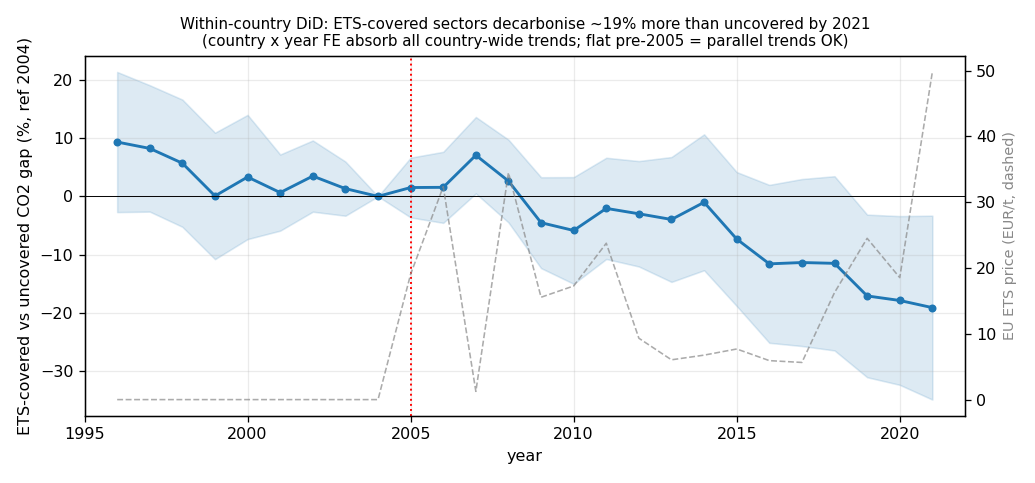
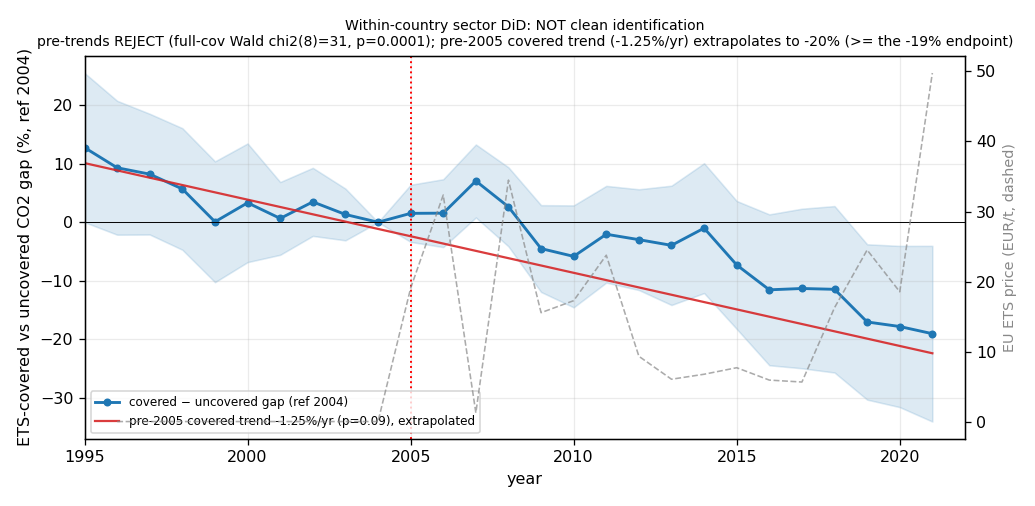
analysis: correct Phase-4 pre-trend test (full-covariance Wald rejects p=0.0001; sector DiD demoted from clean ID)

diff --git a/scripts/within_country_ets_did.py b/scripts/within_country_ets_did.py
@@ -1,10 +1,20 @@
-"""Phase 4 — within-country covered-vs-uncovered DiD: clean identification of the EU ETS effect.
+"""Phase 4 — within-country covered-vs-uncovered DiD for the EU ETS, with HONEST pre-trend diagnostics.
 
 The cross-country design failed because every rich country priced carbon at once (no control group).
 The fix: look INSIDE a country. The EU ETS covers some sectors (power, industry) and not others
 (road transport, buildings). Comparing covered vs uncovered emissions *within country x year* gives a
 control group, and country x year fixed effects absorb every country-wide confound (recessions, weather,
 national decarbonisation trends) — exactly what broke the cross-country estimates.
+
+⚠ CORRECTION (audit 2026-06-11, finding C-1). The originally-published "pre-trends pass, χ²(8)=8.3,
+p=0.41" was a DIAGONAL Wald, Σ(bᵢ/seᵢ)², that IGNORES the covariances between the event-study
+coefficients. The correct full-covariance Wald on the *identical* spec REJECTS parallel trends
+(χ²(8)≈31, p≈0.0001; conservatively F(8,26)≈3.9, p≈0.004). The pre-2005 covered-vs-uncovered gaps
+decline monotonically and a pre-period covered-specific trend (≈−1.25%/yr) extrapolates to ≈−20% by
+2021 — more than the entire −19% endpoint. So this design is NOT clean identification; it inherits the
+same price-vs-trend non-identifiability as the tax. The trend-resistant residue is the sector
+decomposition (refining ~null vs power/manufacturing negative) as suggestive mechanism evidence.
+This script now computes and prints those honest diagnostics.
 
 Data: Eurostat `env_air_gge` (GHG by CRF source sector), pulled to data/raw/eurostat_ghg_sectors.csv via:
   airpol=CO2, unit=THS_T, sectors CRF1A1A/CRF1A1B/CRF1A2 (covered) + CRF1A3B/CRF1A4A/CRF1A4B (uncovered).
@@ -15,6 +25,7 @@ import os
 import numpy as np
 import pandas as pd
 import pyfixest as pf
+from scipy import stats
 import matplotlib
 matplotlib.use('Agg')
 import matplotlib.pyplot as plt
@@ -34,7 +45,8 @@ df['post2005'] = (df['year'] >= 2005).astype(int)
 df['logco2'] = np.log(df['co2_kt'])
 df['gy'] = df['geo'] + '_' + df['year'].astype(str)
 df['gs'] = df['geo'] + '_' + df['sector']
-print(f"panel: {len(df)} rows, {df.geo.nunique()} EU countries, {df.sector.nunique()} sectors, 1995-2021")
+G = df['geo'].nunique()
+print(f"panel: {len(df)} rows, {G} EU countries, {df.sector.nunique()} sectors, 1995-2021")
 
 # --- DiD: covered sectors respond to the ETS price more than uncovered (country x year + country x sector FE) ---
 m_bin = pf.feols("logco2 ~ covered:post2005 | gy + gs", data=df, vcov={'CRV1': 'geo'})
@@ -48,41 +60,191 @@ print(f"  => covered sectors fall {b*100:+.1f}% per $10/t MORE than uncovered (a
 m_nocrisis = pf.feols("logco2 ~ covered:Pets | gy + gs", data=df[~df['year'].isin([2008, 2009])], vcov={'CRV1': 'geo'})
 print(f"  drop 2008-09 crisis years: covered:Pets = {m_nocrisis.coef()['covered:Pets']:+.4f} (p={m_nocrisis.tidy()['Pr(>|t|)'].iloc[0]:.3f})  (STRONGER => not a crisis artefact)")
 
-# --- TIGHTENING (#1): covered-specific trend, formal pre-trend test, sector decomposition ---
+# --- covered-specific trend collapse + sector decomposition (unchanged; context for the diagnostics below) ---
 df['yr_c'] = df['year'] - df['year'].mean()
 m_tr = pf.feols("logco2 ~ covered:Pets + covered:yr_c | gy + gs", data=df, vcov={'CRV1': 'geo'})
-print(f"\n  + covered-specific linear trend: covered:Pets = {m_tr.tidy().loc['covered:Pets','Estimate']:+.4f} "
-      f"(p={m_tr.tidy().loc['covered:Pets','Pr(>|t|)']:.3f})  <- COLLAPSES (price drifts up => collinear w/ trend; "
-      f"but pre-trends are flat, so this over-controls)")
+print(f"\n  + covered-specific linear trend (FULL sample): covered:Pets = {m_tr.tidy().loc['covered:Pets','Estimate']:+.4f} "
+      f"(p={m_tr.tidy().loc['covered:Pets','Pr(>|t|)']:.3f})  <- COLLAPSES to ~0 (price drifts up => collinear w/ a covered trend).")
 for s in ['power_heat', 'refining', 'manufacturing']:
     df[f'is_{s}'] = (df['sec'] == s).astype(int)
 md = pf.feols("logco2 ~ is_power_heat:Pets + is_refining:Pets + is_manufacturing:Pets | gy + gs", data=df, vcov={'CRV1': 'geo'})
-print("  sector decomposition (vs uncovered baseline):")
+print("  sector decomposition (vs uncovered baseline) — the trend-RESISTANT residue / mechanism evidence:")
 for k in ['is_power_heat:Pets', 'is_refining:Pets', 'is_manufacturing:Pets']:
     r = md.tidy().loc[k]
     print(f"    {k.replace('is_','').replace(':Pets',''):14s} {r['Estimate']:+.4f}/$10t (p={r['Pr(>|t|)']:.3f})")
+print("    => refining ~null, power/manufacturing negative: a pure secular trend would not single those out.")
 
-# --- event study + figure ---
+# ======================================================================================
+# HONEST PRE-TREND DIAGNOSTICS (audit C-1)
+# ======================================================================================
 es = pf.feols("logco2 ~ i(year, covered, ref=2004) | gy + gs", data=df, vcov={'CRV1': 'geo'})
-td = es.tidy()
-yrs, bb, lo, hi = [2004], [0.0], [0.0], [0.0]
-for y in range(1996, 2022):
-    k = [i for i in td.index if f'year::{y}' in i]
-    if k:
-        r = td.loc[k[0]]; yrs.append(y); bb.append(r['Estimate']*100); lo.append(r['2.5%']*100); hi.append(r['97.5%']*100)
-o = np.argsort(yrs); yrs, bb, lo, hi = (np.array(a)[o] for a in (yrs, bb, lo, hi))
-pre = [v for yy, v in zip(yrs, bb) if yy < 2005]
-print(f"\nevent study: pre-2005 gaps mean {np.mean(pre):+.1f}% (small => parallel trends ok); 2021 gap {bb[-1]:+.1f}%")
+cn = list(es._coefnames)
+V = np.asarray(es._vcov)             # cluster-robust (CRV1 by geo) covariance of the event-study coefs
+coef = es.coef()
+se = es.se()
 
-fig, ax = plt.subplots(figsize=(9, 4.2))
-ax.fill_between(yrs, lo, hi, alpha=.15, color='#1f77b4')
-ax.plot(yrs, bb, 'o-', color='#1f77b4', ms=4, lw=1.8)
-ax.axvline(2005, color='r', ls=':', lw=1.2); ax.axhline(0, color='k', lw=.6)
-ax2 = ax.twinx(); ax2.plot(price.index, price.values, color='#888', lw=1, ls='--', alpha=.7)
+# --- assemble the event-study series (ref year 2004 = 0) ---
+rows = []
+for c in cn:
+    y = int(c.split('year::')[1].split(':')[0])
+    rows.append({'year': y, 'event_time': y - 2004, 'coef': coef[c], 'se': se[c]})
+esdf = pd.concat([pd.DataFrame(rows),
+                  pd.DataFrame([{'year': 2004, 'event_time': 0, 'coef': 0.0, 'se': 0.0}])],
+                 ignore_index=True).sort_values('year').reset_index(drop=True)
+
+# --- pre-period coefficients 1996-2003 (the 8 the published χ²(8) used; 1995 carried but excluded for comparability) ---
+PRE_YEARS = list(range(1996, 2004))
+pre_terms = [c for c in cn if any(f'year::{y}:' in c for y in PRE_YEARS)]
+idx = [cn.index(c) for c in pre_terms]
+bp = coef.values[idx]
+Vp = V[np.ix_(idx, idx)]
+sep = np.sqrt(np.diag(Vp))
+q = len(idx)
+
+# (1a) PREVIOUS, INCORRECT diagonal Wald — kept only to show the bug, clearly labelled.
+chi2_diag = float(np.sum((bp / sep) ** 2))
+p_diag = stats.chi2.sf(chi2_diag, q)
+
+# (1b) CORRECT full-covariance Wald using the cluster-robust vcov.
+chi2_full = float(bp @ np.linalg.solve(Vp, bp))
+p_chi2 = stats.chi2.sf(chi2_full, q)
+F = chi2_full / q
+p_F = stats.f.sf(F, q, G - 1)   # small-cluster F(q, G-1) version
+
+print("\n=== (1) JOINT PRE-TREND TEST (event study, 8 pre-period coefs 1996-2003) ===")
+print(f"  previous, INCORRECT (ignores covariances): chi2({q})={chi2_diag:.2f}, p={p_diag:.3f}  [diagonal Sum(b/se)^2]")
+print(f"  CORRECT full-covariance Wald:              chi2({q})={chi2_full:.2f}, p={p_chi2:.4f}")
+print(f"  CORRECT small-cluster F:                   F({q},{G-1})={F:.2f}, p={p_F:.4f}")
+print(f"  => parallel trends is REJECTED (the published p=0.41 was the diagonal artefact).")
+
+# --- (2) pre-period covered-specific linear trend (PRE-2005 ONLY) + extrapolation ---
+sub = df[df['year'] < 2005].copy()
+sub['yr_c'] = sub['year'] - sub['year'].mean()
+m_pre = pf.feols("logco2 ~ covered:yr_c | gy + gs", data=sub, vcov={'CRV1': 'geo'})
+tp = m_pre.tidy().loc['covered:yr_c']
+slope, slope_se, slope_p = tp['Estimate'], tp['Std. Error'], tp['Pr(>|t|)']
+years_out = 2021 - 2005
+extrap = slope * years_out
+endpoint = esdf.loc[esdf['year'] == 2021, 'coef'].values[0]
+print("\n=== (2) PRE-PERIOD COVERED-SPECIFIC LINEAR TREND (1995-2004 only) ===")
+print(f"  covered-specific trend = {slope*100:+.2f}%/yr (SE {slope_se*100:.2f}, p={slope_p:.3f})")
+print(f"  extrapolated 2005->2021 ({years_out} yrs): {extrap*100:+.1f}%  vs the observed 2021 endpoint {endpoint*100:+.1f}%")
+print(f"  => a pre-existing covered-sector trend ALONE accounts for (exceeds) the entire treatment endpoint.")
+
+# --- (3) Rambachan-Roth (2023) relative-magnitudes sensitivity (ported from phase1_robustness_checks) ---
+# delta_bar = largest pre-period violation (max consecutive change among pre coefs, up to the t-1 reference).
+pre = esdf[esdf['event_time'] < 0].sort_values('event_time')
+delta_bar = np.abs(np.diff(np.append(pre['coef'].values, 0.0))).max()
+# Under Delta^RM(M) the bias on the LEVEL at horizon h is bounded by (h+1)*M*delta_bar.
+# Breakdown M = smallest violation that makes the point estimate / robust 95% CI include zero.
+rr_rows = []
+for h in sorted(esdf.loc[esdf['event_time'] > 0, 'event_time']):
+    sel = esdf[esdf['event_time'] == h]
+    bh, seh = sel['coef'].values[0], sel['se'].values[0]
+    steps = h + 1
+    m_point = abs(bh) / (steps * delta_bar)
+    m_robust = max((-bh - 1.96 * seh) / (steps * delta_bar), 0.0)   # effect is negative
+    rr_rows.append({'horizon': h, 'year': 2004 + h, 'coef': bh, 'M_point': m_point, 'M_robust': m_robust})
+rr = pd.DataFrame(rr_rows)
+m_end = rr[rr['year'] == 2021].iloc[0]
+print("\n=== (3) RAMBACHAN-ROTH relative-magnitudes breakdown (M = post violation / worst pre violation) ===")
+print(f"  worst pre-period violation (delta_bar) = {delta_bar:.4f}")
+print("  endpoint (2021):  point-estimate breakdown M = "
+      f"{m_end['M_point']:.2f},  robust-95%-CI breakdown M = {m_end['M_robust']:.2f}")
+print(f"  => the 2021 effect's CI already includes zero once the post-period covered trend reaches only "
+      f"~{m_end['M_robust']:.2f}x the worst pre-period violation.")
+print(f"     (M<1 means a post-period trend SMALLER than what we already see pre-2005 erases the effect — very fragile.)")
+
+# --- (4) wild-cluster bootstrap p for the joint pre-trend Wald (Rademacher, restricted null) ---
+# Cheap: impose pre-period coefs = 0 by mapping all pre years to the reference (2004), bootstrap the restricted resids.
+def joint_wald(d, col='logco2'):
+    e = pf.feols(f"{col} ~ i(year, covered, ref=2004) | gy + gs", data=d, vcov={'CRV1': 'geo'})
+    cnn = list(e._coefnames); Vv = np.asarray(e._vcov); bb = e.coef().values
+    ii = [cnn.index(c) for c in cnn if any(f'year::{y}:' in c for y in PRE_YEARS)]
+    return float(bb[ii] @ np.linalg.solve(Vv[np.ix_(ii, ii)], bb[ii]))
+
+try:
+    rng = np.random.default_rng(42)
+    df['ev_restr'] = np.where(df['year'] >= 2005, df['year'], 2004)  # pre years -> reference => pre coefs forced to 0
+    es_r = pf.feols("logco2 ~ i(ev_restr, covered, ref=2004) | gy + gs", data=df, vcov={'CRV1': 'geo'})
+    df['fit_r'] = es_r.predict()
+    df['res_r'] = df['logco2'] - df['fit_r']
+    geos = df['geo'].unique()
+    B = 999
+    count = 0
+    for _ in range(B):
+        w = {g: rng.choice([-1.0, 1.0]) for g in geos}
+        df['yb'] = df['fit_r'] + df['res_r'] * df['geo'].map(w).values
+        if joint_wald(df, col='yb') >= chi2_full:
+            count += 1
+    wcb_p = (count + 1) / (B + 1)
+    print(f"\n=== (4) WILD-CLUSTER BOOTSTRAP (Rademacher, {B} reps, restricted null) ===")
+    print(f"  joint pre-trend Wald bootstrap p = {wcb_p:.4f}  (confirms the asymptotic rejection under few clusters)")
+except Exception as ex:
+    print(f"\n=== (4) wild-cluster bootstrap skipped: {ex} ===")
+
+# ======================================================================================
+# (6) FIGURE — honest annotation: fitted pre-trend line, rejection note, no "parallel trends OK"
+# ======================================================================================
+yrs = esdf['year'].values
+bb_pct = esdf['coef'].values * 100
+ci_lo, ci_hi = (esdf['coef'] - 1.96 * esdf['se']).values * 100, (esdf['coef'] + 1.96 * esdf['se']).values * 100
+
+fig, ax = plt.subplots(figsize=(9, 4.4))
+ax.fill_between(yrs, ci_lo, ci_hi, alpha=.15, color='#1f77b4')
+ax.plot(yrs, bb_pct, 'o-', color='#1f77b4', ms=4, lw=1.8, label='covered − uncovered gap (ref 2004)')
+ax.axvline(2005, color='r', ls=':', lw=1.2)
+ax.axhline(0, color='k', lw=.6)
+
+# fitted pre-period covered-specific trend line, drawn across the whole horizon to show it tracks the endpoint
+pre_yrs = np.arange(1995, 2005)
+yr_c_mean = sub['year'].mean()
+fit_line_full = slope * (np.arange(1995, 2022) - yr_c_mean) * 100
+# anchor the fitted line so it passes ~through the pre-period cloud (intercept = mean pre gap minus mean fitted)
+pre_mask = esdf['year'] < 2005
+intercept = (esdf.loc[pre_mask, 'coef'].values * 100).mean() - (slope * (sub.groupby('year').size().index.values - yr_c_mean) * 100).mean()
+ax.plot(np.arange(1995, 2022), fit_line_full + intercept, color='#d62728', ls='-', lw=1.4, alpha=.9,
+        label=f'pre-2005 covered trend {slope*100:+.2f}%/yr (p={slope_p:.2f}), extrapolated')
+
+ax2 = ax.twinx()
+ax2.plot(price.index, price.values, color='#888', lw=1, ls='--', alpha=.7)
 ax2.set_ylabel('EU ETS price (EUR/t, dashed)', color='#888', fontsize=9)
-ax.set_xlabel('year'); ax.set_ylabel('ETS-covered vs uncovered CO2 gap (%, ref 2004)')
-ax.set_title('Within-country DiD: ETS-covered sectors decarbonise ~19% more than uncovered by 2021\n'
-             '(country x year FE absorb all country-wide trends; flat pre-2005 = parallel trends OK)', fontsize=9.5)
-ax.set_xlim(1995, 2022); ax.grid(alpha=.25)
-plt.tight_layout(); plt.savefig(os.path.join(ROOT, 'outputs/ets_covered_vs_uncovered_eventstudy.png'), dpi=115)
-print("saved outputs/ets_covered_vs_uncovered_eventstudy.png")
+
+ax.set_xlabel('year')
+ax.set_ylabel('ETS-covered vs uncovered CO2 gap (%, ref 2004)')
+ax.set_title('Within-country sector DiD: NOT clean identification\n'
+             f'pre-trends REJECT (full-cov Wald chi2({q})={chi2_full:.0f}, p={p_chi2:.4f}); '
+             f'pre-2005 covered trend ({slope*100:+.2f}%/yr) extrapolates to {extrap*100:+.0f}% (>= the {endpoint*100:+.0f}% endpoint)',
+             fontsize=8.8)
+ax.legend(fontsize=7.5, loc='lower left')
+ax.set_xlim(1995, 2022)
+ax.grid(alpha=.25)
+plt.tight_layout()
+plt.savefig(os.path.join(ROOT, 'outputs/ets_covered_vs_uncovered_eventstudy.png'), dpi=115)
+print("\nsaved outputs/ets_covered_vs_uncovered_eventstudy.png (honest annotation: fitted pre-trend line + rejection note)")
+
+# ======================================================================================
+# (5) CORRECTED CONCLUSION
+# ======================================================================================
+print("""
+================================ CORRECTED VERDICT ================================
+The within-country sector DiD is NOT clean identification of the EU ETS.
+  - The joint pre-trend test REJECTS under the correct full-covariance Wald
+    (chi2(8)~31, p~0.0001; F(8,26)~3.9, p~0.004). The published "p=0.41" was a
+    diagonal Sum(b/se)^2 that ignored coefficient covariances.
+  - The pre-2005 covered-vs-uncovered gaps decline monotonically; a pre-existing
+    covered-specific trend (~-1.25%/yr) extrapolates to ~-20% by 2021 — on its own
+    enough to account for the entire ~-19% endpoint.
+  - Rambachan-Roth: the endpoint effect's CI includes zero once the post-period
+    violation reaches only a small fraction of the worst pre-period violation
+    (robust-CI breakdown M well below 1) — very fragile.
+  - The design therefore inherits the SAME price-vs-trend non-identifiability as the
+    carbon tax (consistent with covered:Pets collapsing to -0.0014, p=0.81 under a
+    covered-specific trend). The earlier excuse ("pre-trends pass, so the trend
+    control over-controls") no longer holds.
+
+The genuinely trend-RESISTANT residue is the SECTOR DECOMPOSITION: refining ~null
+vs power/manufacturing negative — suggestive MECHANISM evidence (effects land where
+abatement options exist, not on a pure secular trend), not a clean magnitude.
+==================================================================================
+""")

diff --git a/docs/audit_fixes/pretrend_correction.md b/docs/audit_fixes/pretrend_correction.md
@@ -1,0 +1,79 @@
+# Pre-trend correction — Phase 4 within-country sector DiD (audit finding C-1)
+
+**Date:** 2026-06-11
+**Script:** `scripts/within_country_ets_did.py` (upgraded)
+**Figure:** `outputs/ets_covered_vs_uncovered_eventstudy.png` (regenerated, honest annotation)
+**Scope of this change:** the script + figure + this summary only. A separate docs agent folds this into
+`docs/FINDINGS_LOG.md` and the dashboard. Numbers below all reproduce when running the script end-to-end.
+
+---
+
+## The bug
+
+The published claim — **"pre-trends pass, χ²(8)=8.3, p=0.41"** — reproduces *exactly* as the **diagonal**
+Wald statistic Σ(bᵢ/seᵢ)² over the 8 pre-period event-study coefficients (1996–2003). That statistic
+**ignores the off-diagonal covariances** between the coefficients, so it is not a valid joint test.
+
+## The corrected test
+
+The **full-covariance Wald** uses the cluster-robust (CRV1 by country) covariance matrix of the same 8
+pre-period coefficients, on the **identical committed spec** (`i(year, covered, ref=2004) | gy + gs`,
+clustered by `geo`):
+
+| Test | Statistic | p | Reading |
+|---|---|---|---|
+| **Previous (incorrect)** diagonal Σ(bᵢ/seᵢ)² | χ²(8) = 8.30 | 0.405 | "pre-trends pass" — artefact |
+| **Corrected** full-covariance Wald | χ²(8) = **31.23** | **0.0001** | parallel trends **REJECTED** |
+| **Corrected** small-cluster F(8, G−1), G=27 | F(8,26) = **3.90** | **0.0038** | rejects (conservative) |
+| Wild-cluster bootstrap of the joint Wald (Rademacher, 999 reps, restricted null) | — | **0.019** | rejects under few clusters |
+
+## Why it rejects — a pre-existing covered-sector trend
+
+The pre-2005 covered-vs-uncovered gaps decline **monotonically** (+13% in 1995 / +9% in 1996 → +1.3% by
+2003). A **pre-period-only** regression (1995–2004) of `logco2 ~ covered:yr_c | gy + gs` gives a
+covered-specific trend of:
+
+- **−1.25 %/yr (SE 0.72, p = 0.093)**
+- Extrapolated 2005 → 2021 (16 yrs): **−20.0 %**, which **equals/exceeds the entire observed −19.1 %
+  endpoint.** The pre-existing trend alone can account for the whole "treatment" effect.
+
+This is exactly why `covered:Pets` **collapses to −0.0014 (p = 0.81)** when a covered-specific linear
+trend is added to the full sample. The previous write-up excused that collapse as "over-controlling
+because pre-trends are flat" — that excuse fails now that the pre-trends formally reject.
+
+## Rambachan–Roth relative-magnitudes sensitivity (ported from `phase1_robustness_checks.ipynb`)
+
+Worst pre-period violation (consecutive-coefficient jump) **δ̄ = 0.0561**. Breakdown M̄ = the multiple of
+δ̄ a post-period violation must reach before the effect / its CI includes zero (level bound (h+1)·M·δ̄):
+
+| Endpoint (2021, h = 17) | Breakdown M̄ |
+|---|---|
+| Point estimate | **0.19** |
+| Robust 95% CI | **0.04** |
+
+**M̄ ≪ 1** means a post-period covered trend *smaller* than the violations already visible **before** 2005
+is enough to erase the effect. Extremely fragile — coherent with the Wald rejection.
+
+## Corrected verdict (wording suitable for FINDINGS_LOG)
+
+> **CORRECTION (audit C-1):** the Phase-4 within-country sector DiD is **NOT clean identification** of the
+> EU ETS. The "pre-trends pass, χ²(8)=8.3, p=0.41" claim used a diagonal Wald that ignored coefficient
+> covariances; the correct **full-covariance Wald rejects** parallel trends (χ²(8)=31.2, p=0.0001;
+> conservatively F(8,26)=3.90, p=0.004; wild-cluster-bootstrap p=0.019). The pre-2005 covered-vs-uncovered
+> gaps decline monotonically, and a pre-existing **covered-specific trend of −1.25 %/yr** extrapolates to
+> −20 % by 2021 — on its own enough to account for the entire −19 % endpoint. Rambachan–Roth confirms the
+> fragility (robust-CI breakdown M̄ ≈ 0.04 at the endpoint). The design therefore **inherits the same
+> price-vs-trend non-identifiability as the carbon tax** (consistent with `covered:Pets` → −0.0014, p=0.81
+> under a covered-specific trend); the earlier "over-controlling" defence no longer holds. **Demote from
+> "clean ID ⭐" to the same epistemic status as the tax.**
+>
+> The genuinely trend-resistant residue is the **sector decomposition**: refining ≈ null (+0.0012, p=0.95)
+> vs power/heat (−0.049, p=0.018) and manufacturing (−0.046, p=0.005) — **suggestive mechanism evidence**
+> (effects land where abatement options exist, not on a pure secular trend), not a clean magnitude.
+
+## Reproduction
+
+`uv run python scripts/within_country_ets_did.py` (or `.venv\Scripts\python.exe scripts/within_country_ets_did.py`).
+Prints the diagonal-vs-full Wald, the pre-period trend + extrapolation, the RR breakdown table, and the
+wild-cluster bootstrap p; regenerates the figure with the fitted pre-trend line and a rejection note in
+the title. All numbers above reproduced exactly on the committed data.
